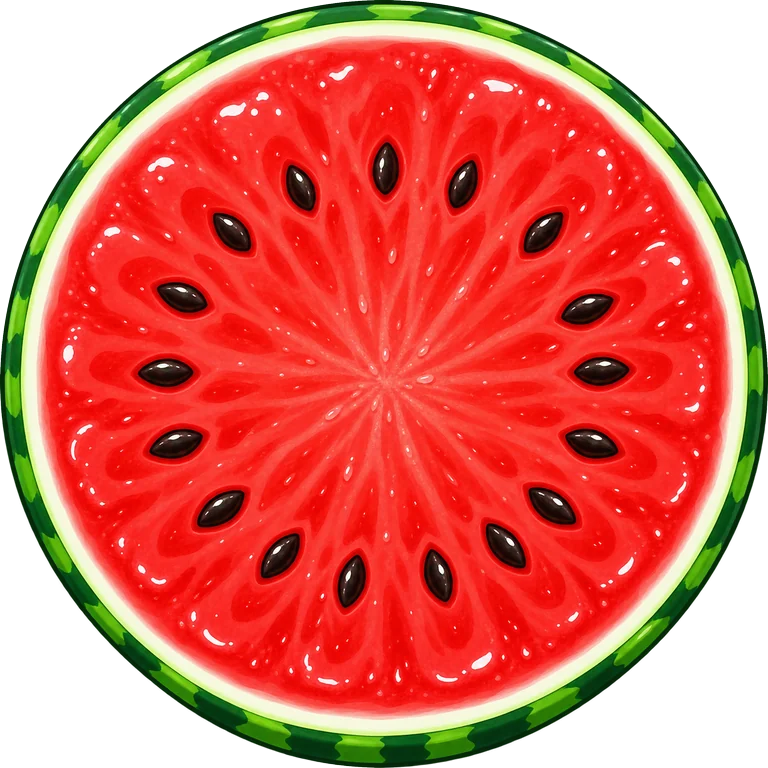
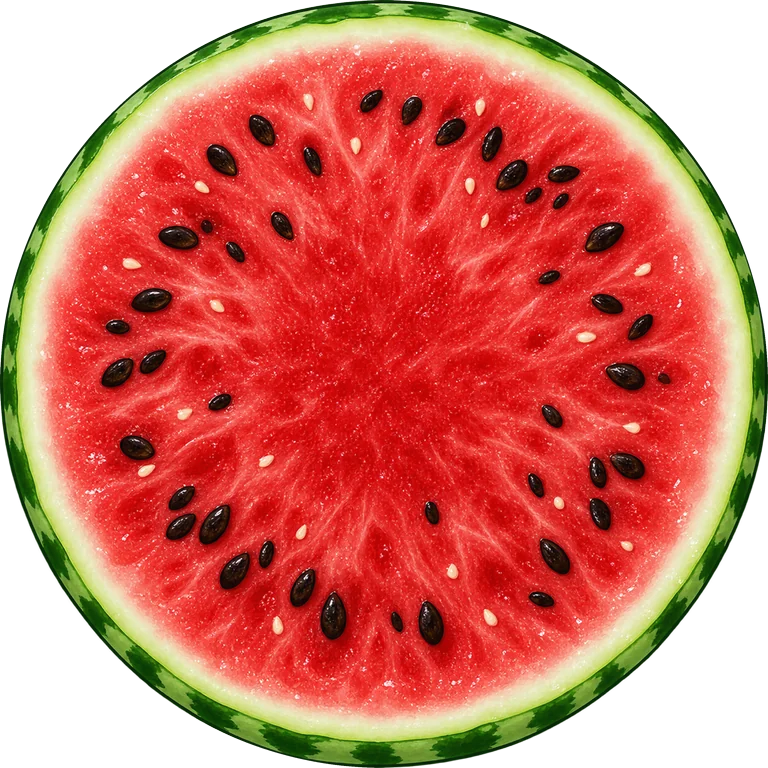
Melon samurai: natural-looking watermelon with irregularly scattered seeds

diff --git a/tools/arcade/README.md b/tools/arcade/README.md
@@ -46,8 +46,15 @@ single prompt that asks for the images in the same style. Shared part:
 > everything outside the circle is fully transparent (PNG with alpha). The rind forms a thin ring
 > at the edge. No knife, no hands, no text, no shadow, no plate, square 1024x1024.
 
-1. **watermelon** – bright red juicy flesh with black seeds arranged in a ring, thin white layer
-   and dark green striped rind.
+1. **watermelon** – regenerated separately (with the orange attached as style reference) because
+   the first one looked artificial: "…must look NATURAL, like a real sliced watermelon, not
+   artificial or symmetric: the black seeds are scattered IRREGULARLY in a loose, uneven band
+   roughly two thirds of the way out, NOT in a perfect ring and NOT evenly spaced: different
+   sizes, different angles, some clustered, some gaps, a few small pale white immature seeds in
+   between; the red flesh has an organic juicy, slightly grainy/crystalline texture, redder in
+   the middle and lighter pink towards the rind - no radial star pattern, no symmetry; a thin
+   pale greenish-white layer, then the green rind with slightly irregular dark green stripes."
+   Three variants were made, the most irregular one was kept.
 2. **orange** – bright orange segments radiating from a pale center, white pith lines, peel ring.
 3. **kiwi** – bright green flesh, creamy white core, a ring of small black seeds with fine rays,
    thin brown fuzzy skin.
